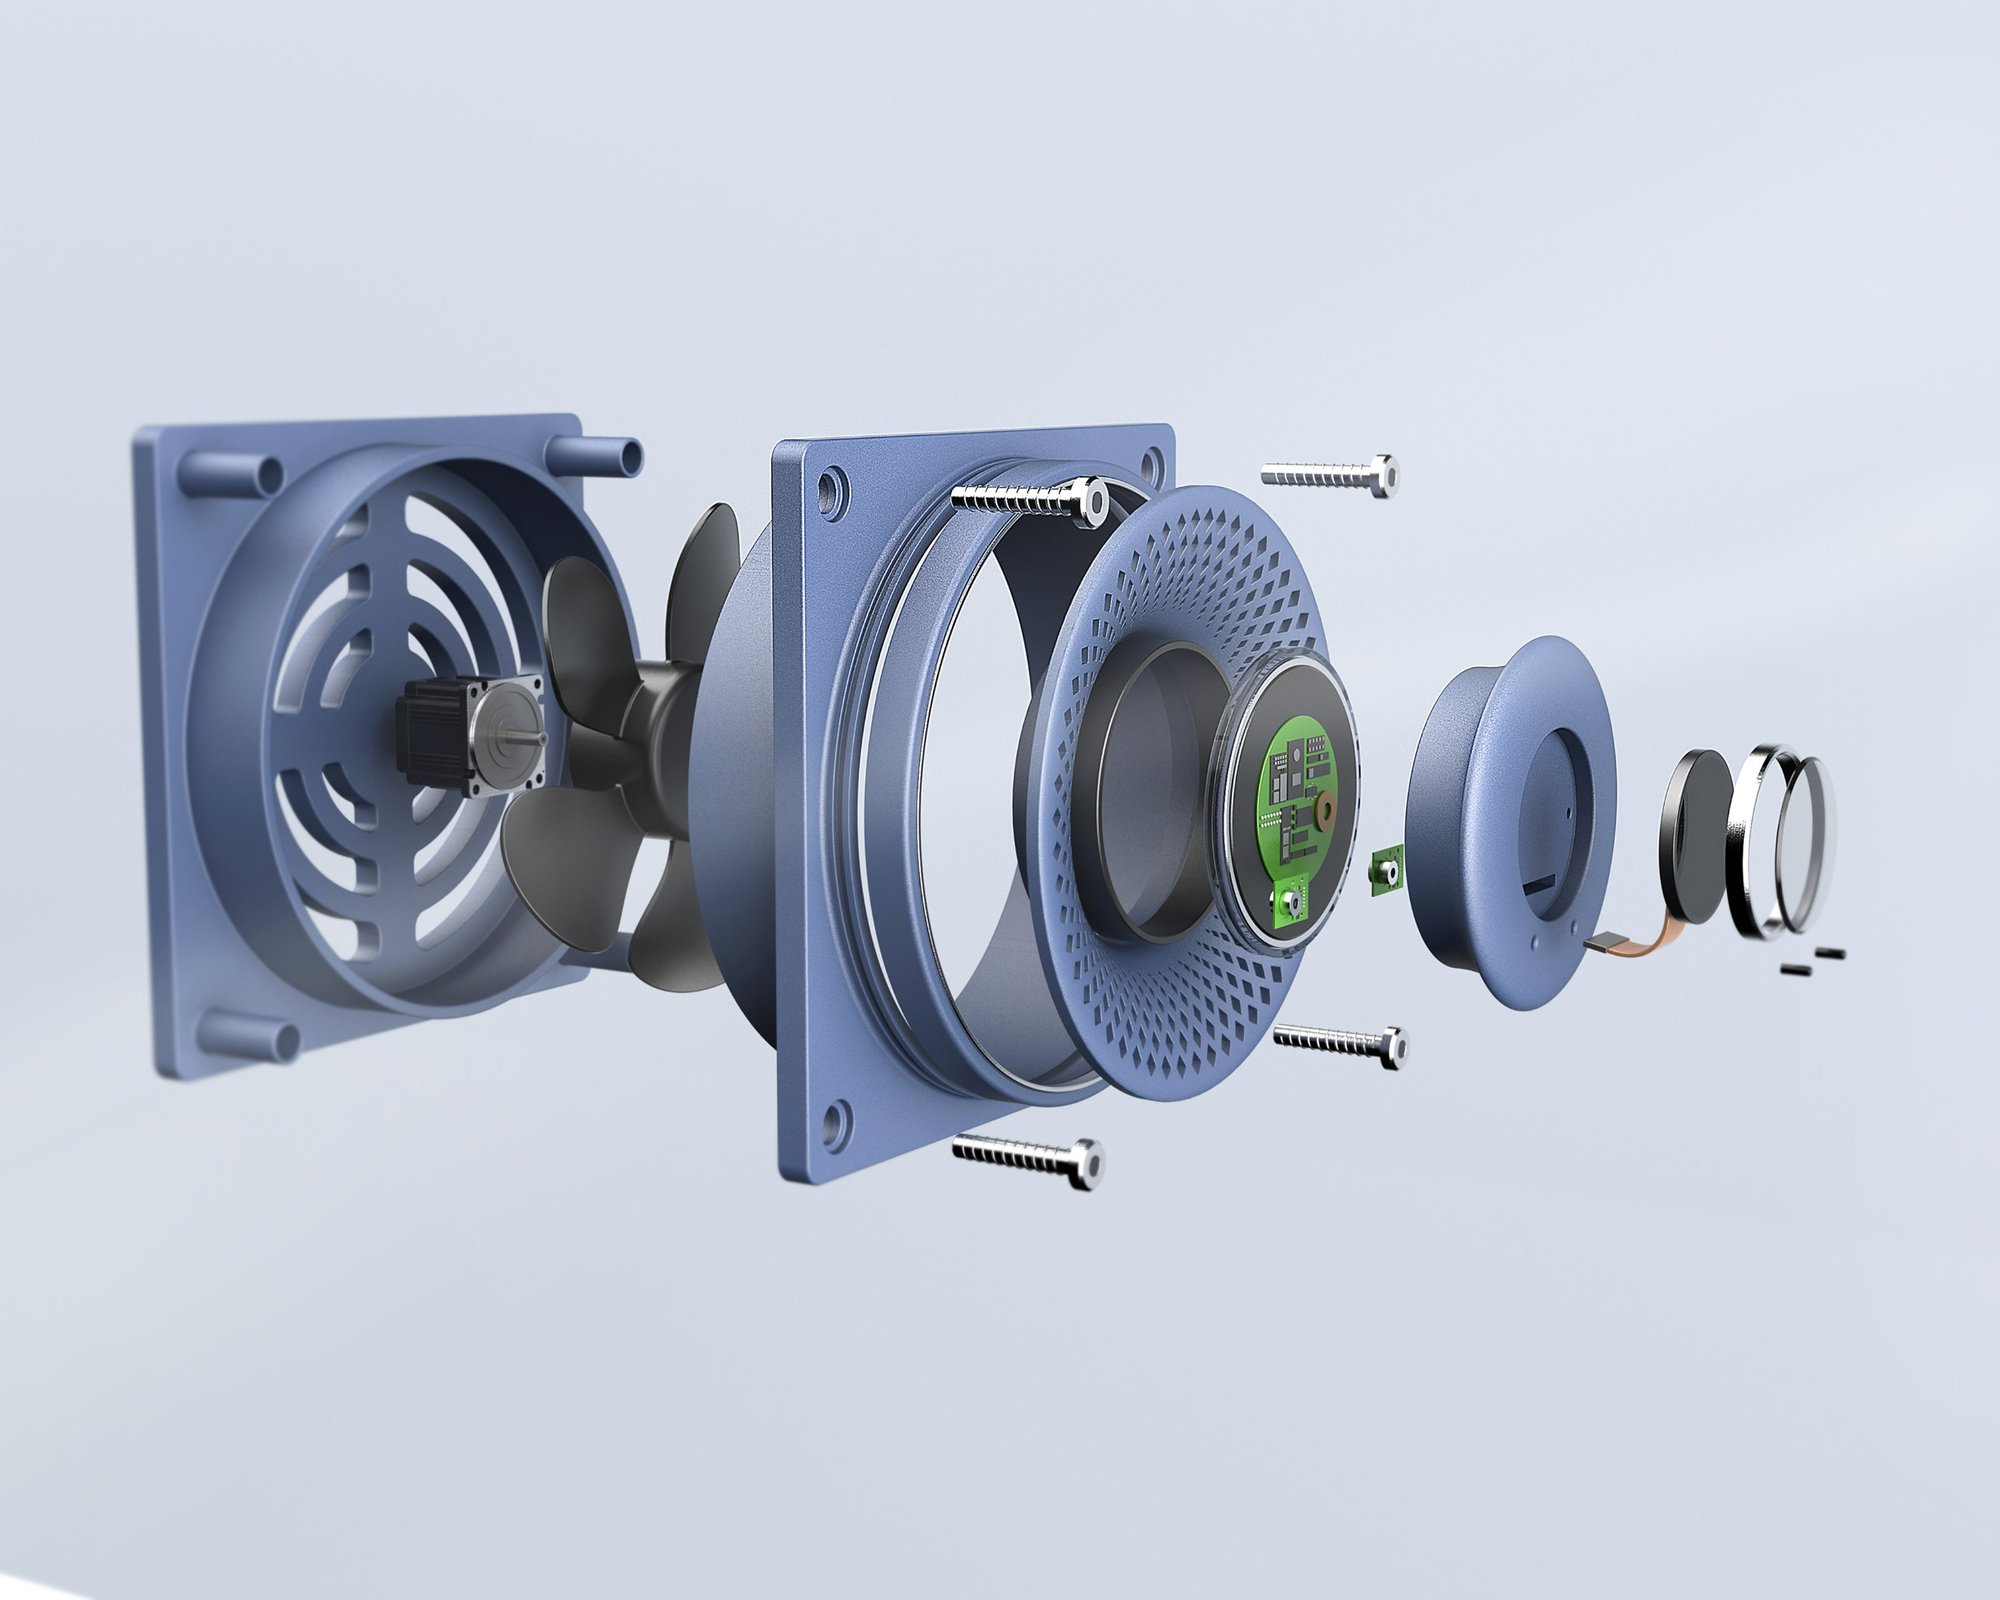
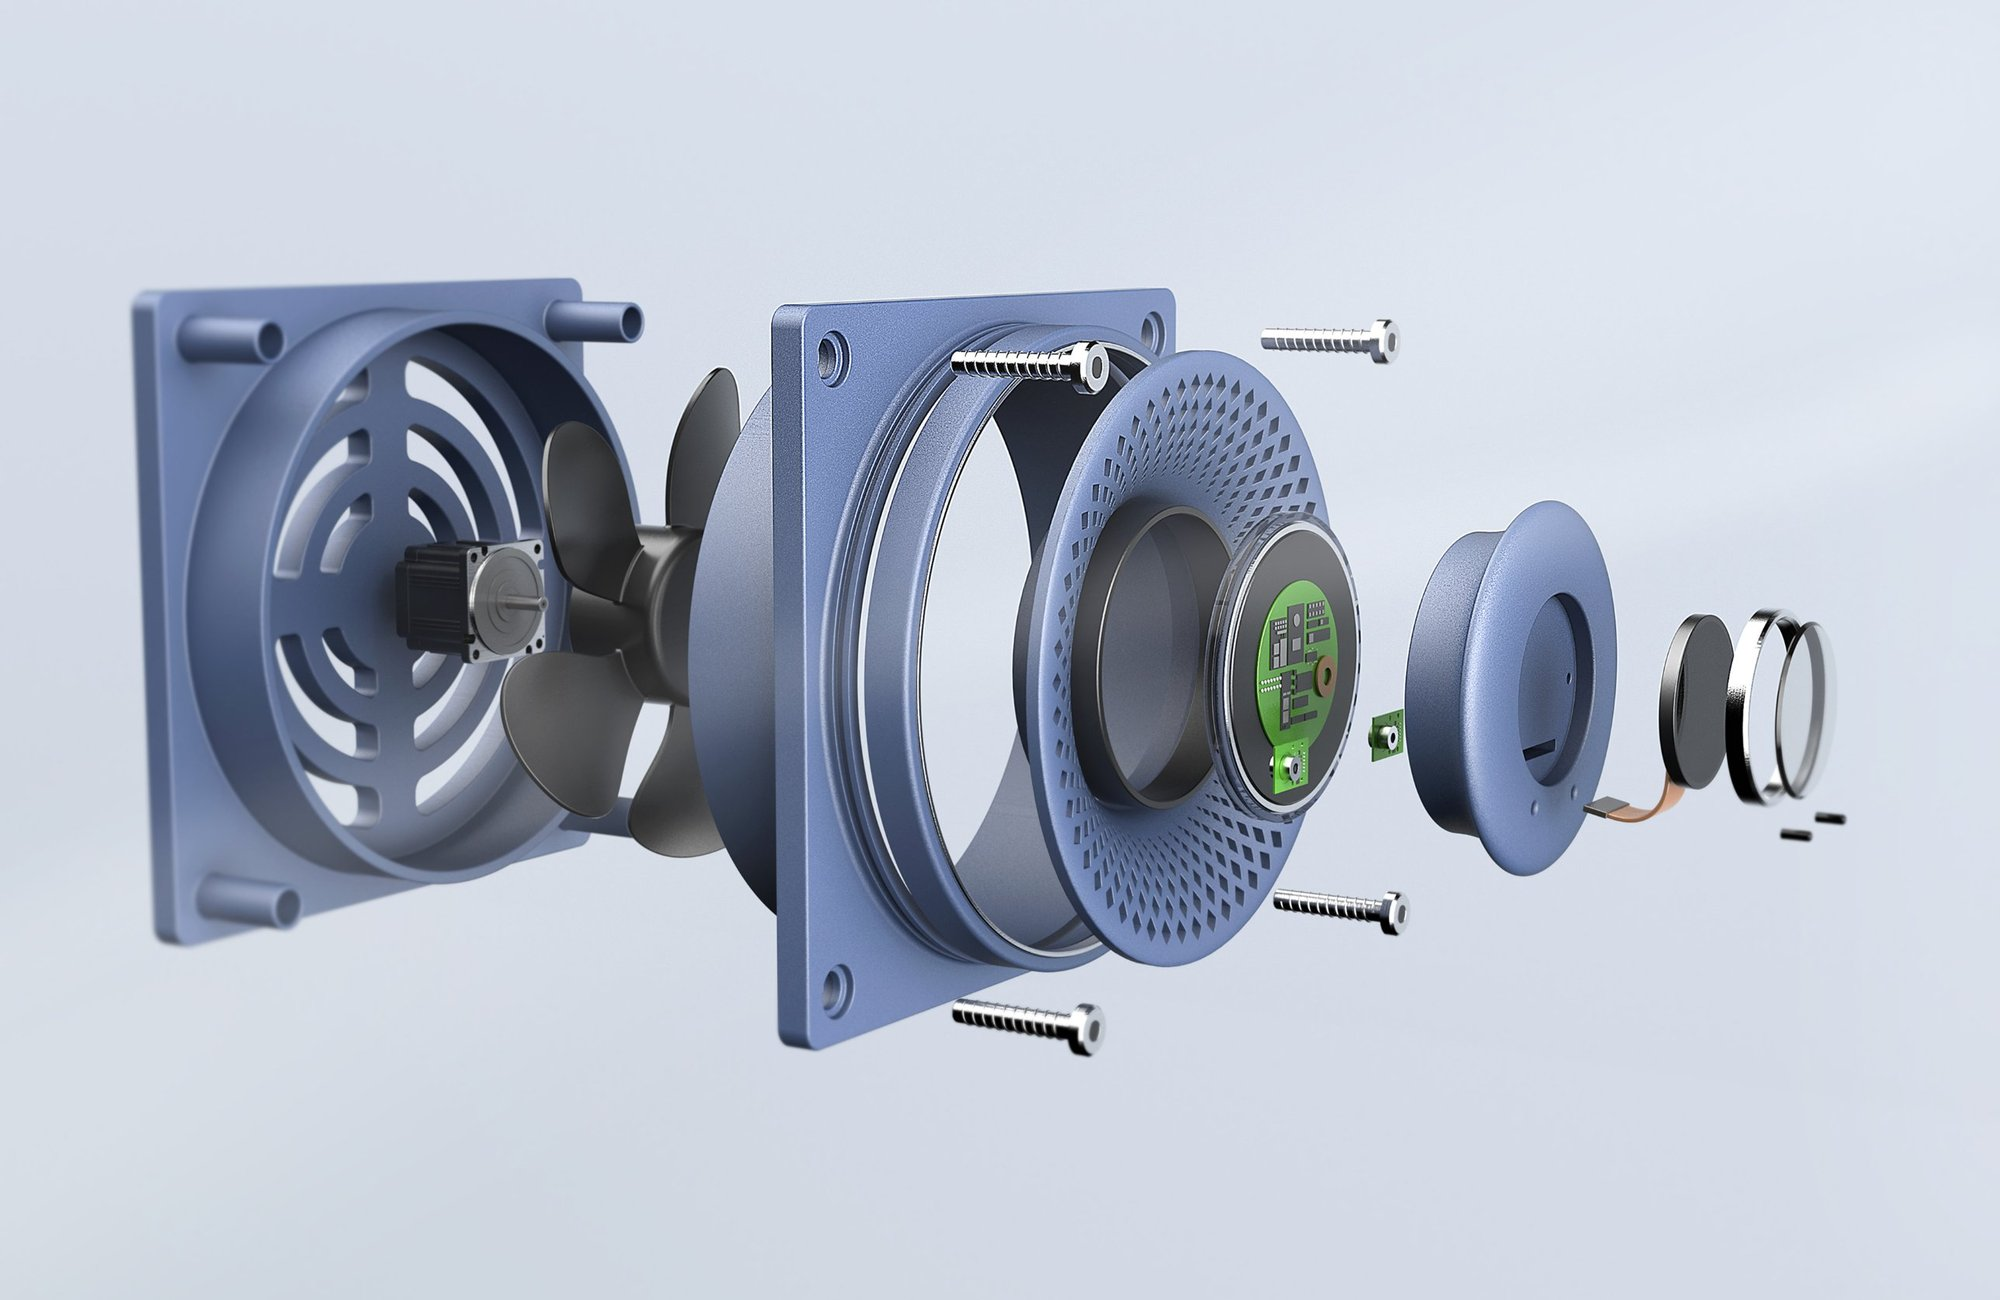
AIRFRAME: 분해도 이미지 교체
Claude-Session: https://claude.ai/code/session_01K6AaiLgmw44oxt7YfgjZiW

diff --git a/airframe.html b/airframe.html
@@ -29,7 +29,7 @@
 <div class="wrap">
 <div class="p-text"><div><h3>Background</h3><p>실험실이나 목업실 등 환기가 잘 되지 않는 공간에서 작업을 하다 건강에 이상이 생기거나 유해 물질이 누출되었다는 뉴스를 접한 적이 있다.</p><p>또한 작업 중 공기질이 나빠졌는지도 확인하지 못하고 진행하는 경우가 있다. 그런 상황에서 스스로 공기를 순환시키고, 사용자에게 실시간으로 공기질 정보를 줄 수 있는 시스템을 생각해보았다.</p></div><div><h3>Design Concept</h3><p>밀폐된 공간(실험실, 목업실, 3D프린터실)에서는 유해한 물질에 노출되어 건강상의 문제가 발생하는 이슈가 있다. 이를 센서를 통한 자동 환기 시스템과 클래식한 오브제 &amp; 시계의 결합으로 풀었다.</p><p>자동 환기 시스템으로 실내 공기를 안전하게 유지시키고, 오브제와 시계로서 사용자가 주기적으로 확인하도록 유도한다. 걱정 없이 공간에서 지낼 수 있고, 오브제로서 시각적인 만족을 주며, 불안감 해소와 건강 및 안전 확보로 이어진다.</p></div></div>
 <div class="imgs">
-<img src="images/airframe-1.jpg?v=1794470437" width="2000" height="1600" alt="AIRFRAME 이미지 1" loading="lazy">
+<img src="images/airframe-1.jpg?v=1794470657" width="2000" height="1300" alt="AIRFRAME 이미지 1" loading="lazy">
 <img src="images/airframe-2.jpg?v=1794470437" width="2000" height="1500" alt="AIRFRAME 이미지 2" loading="lazy">
 <img src="images/airframe-3.jpg?v=1794470437" width="2000" height="1500" alt="AIRFRAME 이미지 3" loading="lazy">
 <img src="images/airframe-4.jpg?v=1794470437" width="2000" height="1500" alt="AIRFRAME 이미지 4" loading="lazy">
